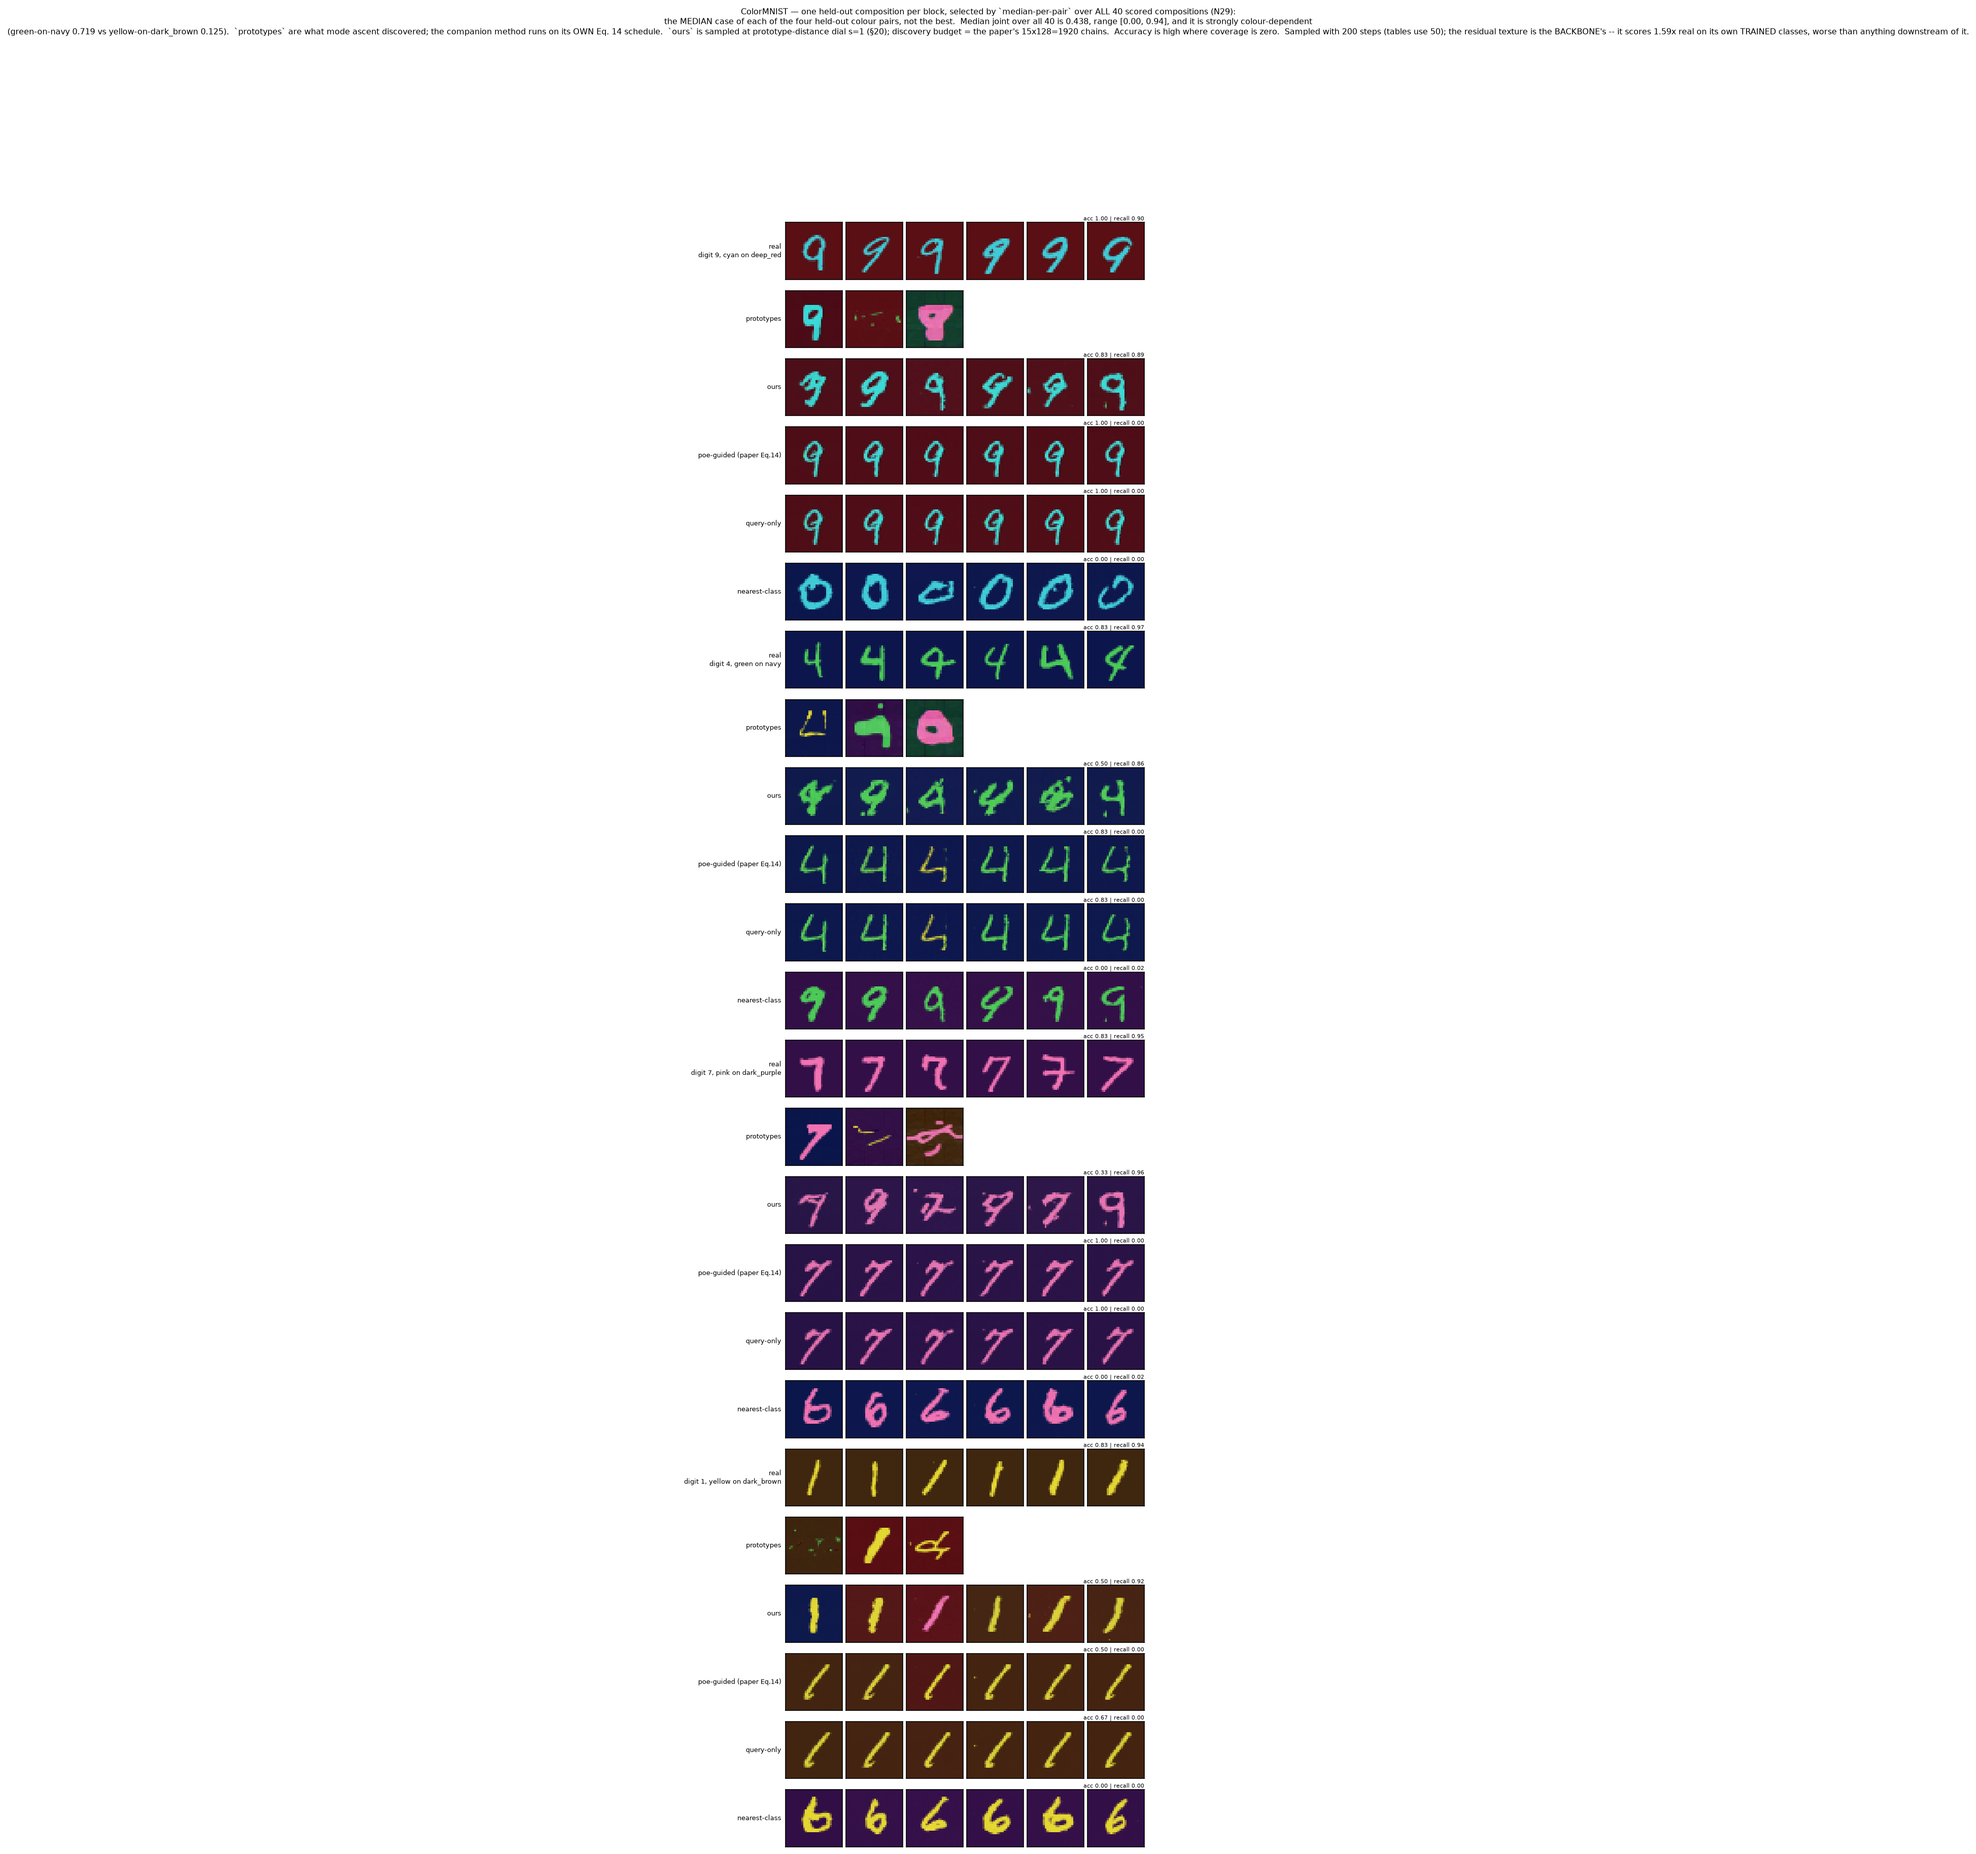
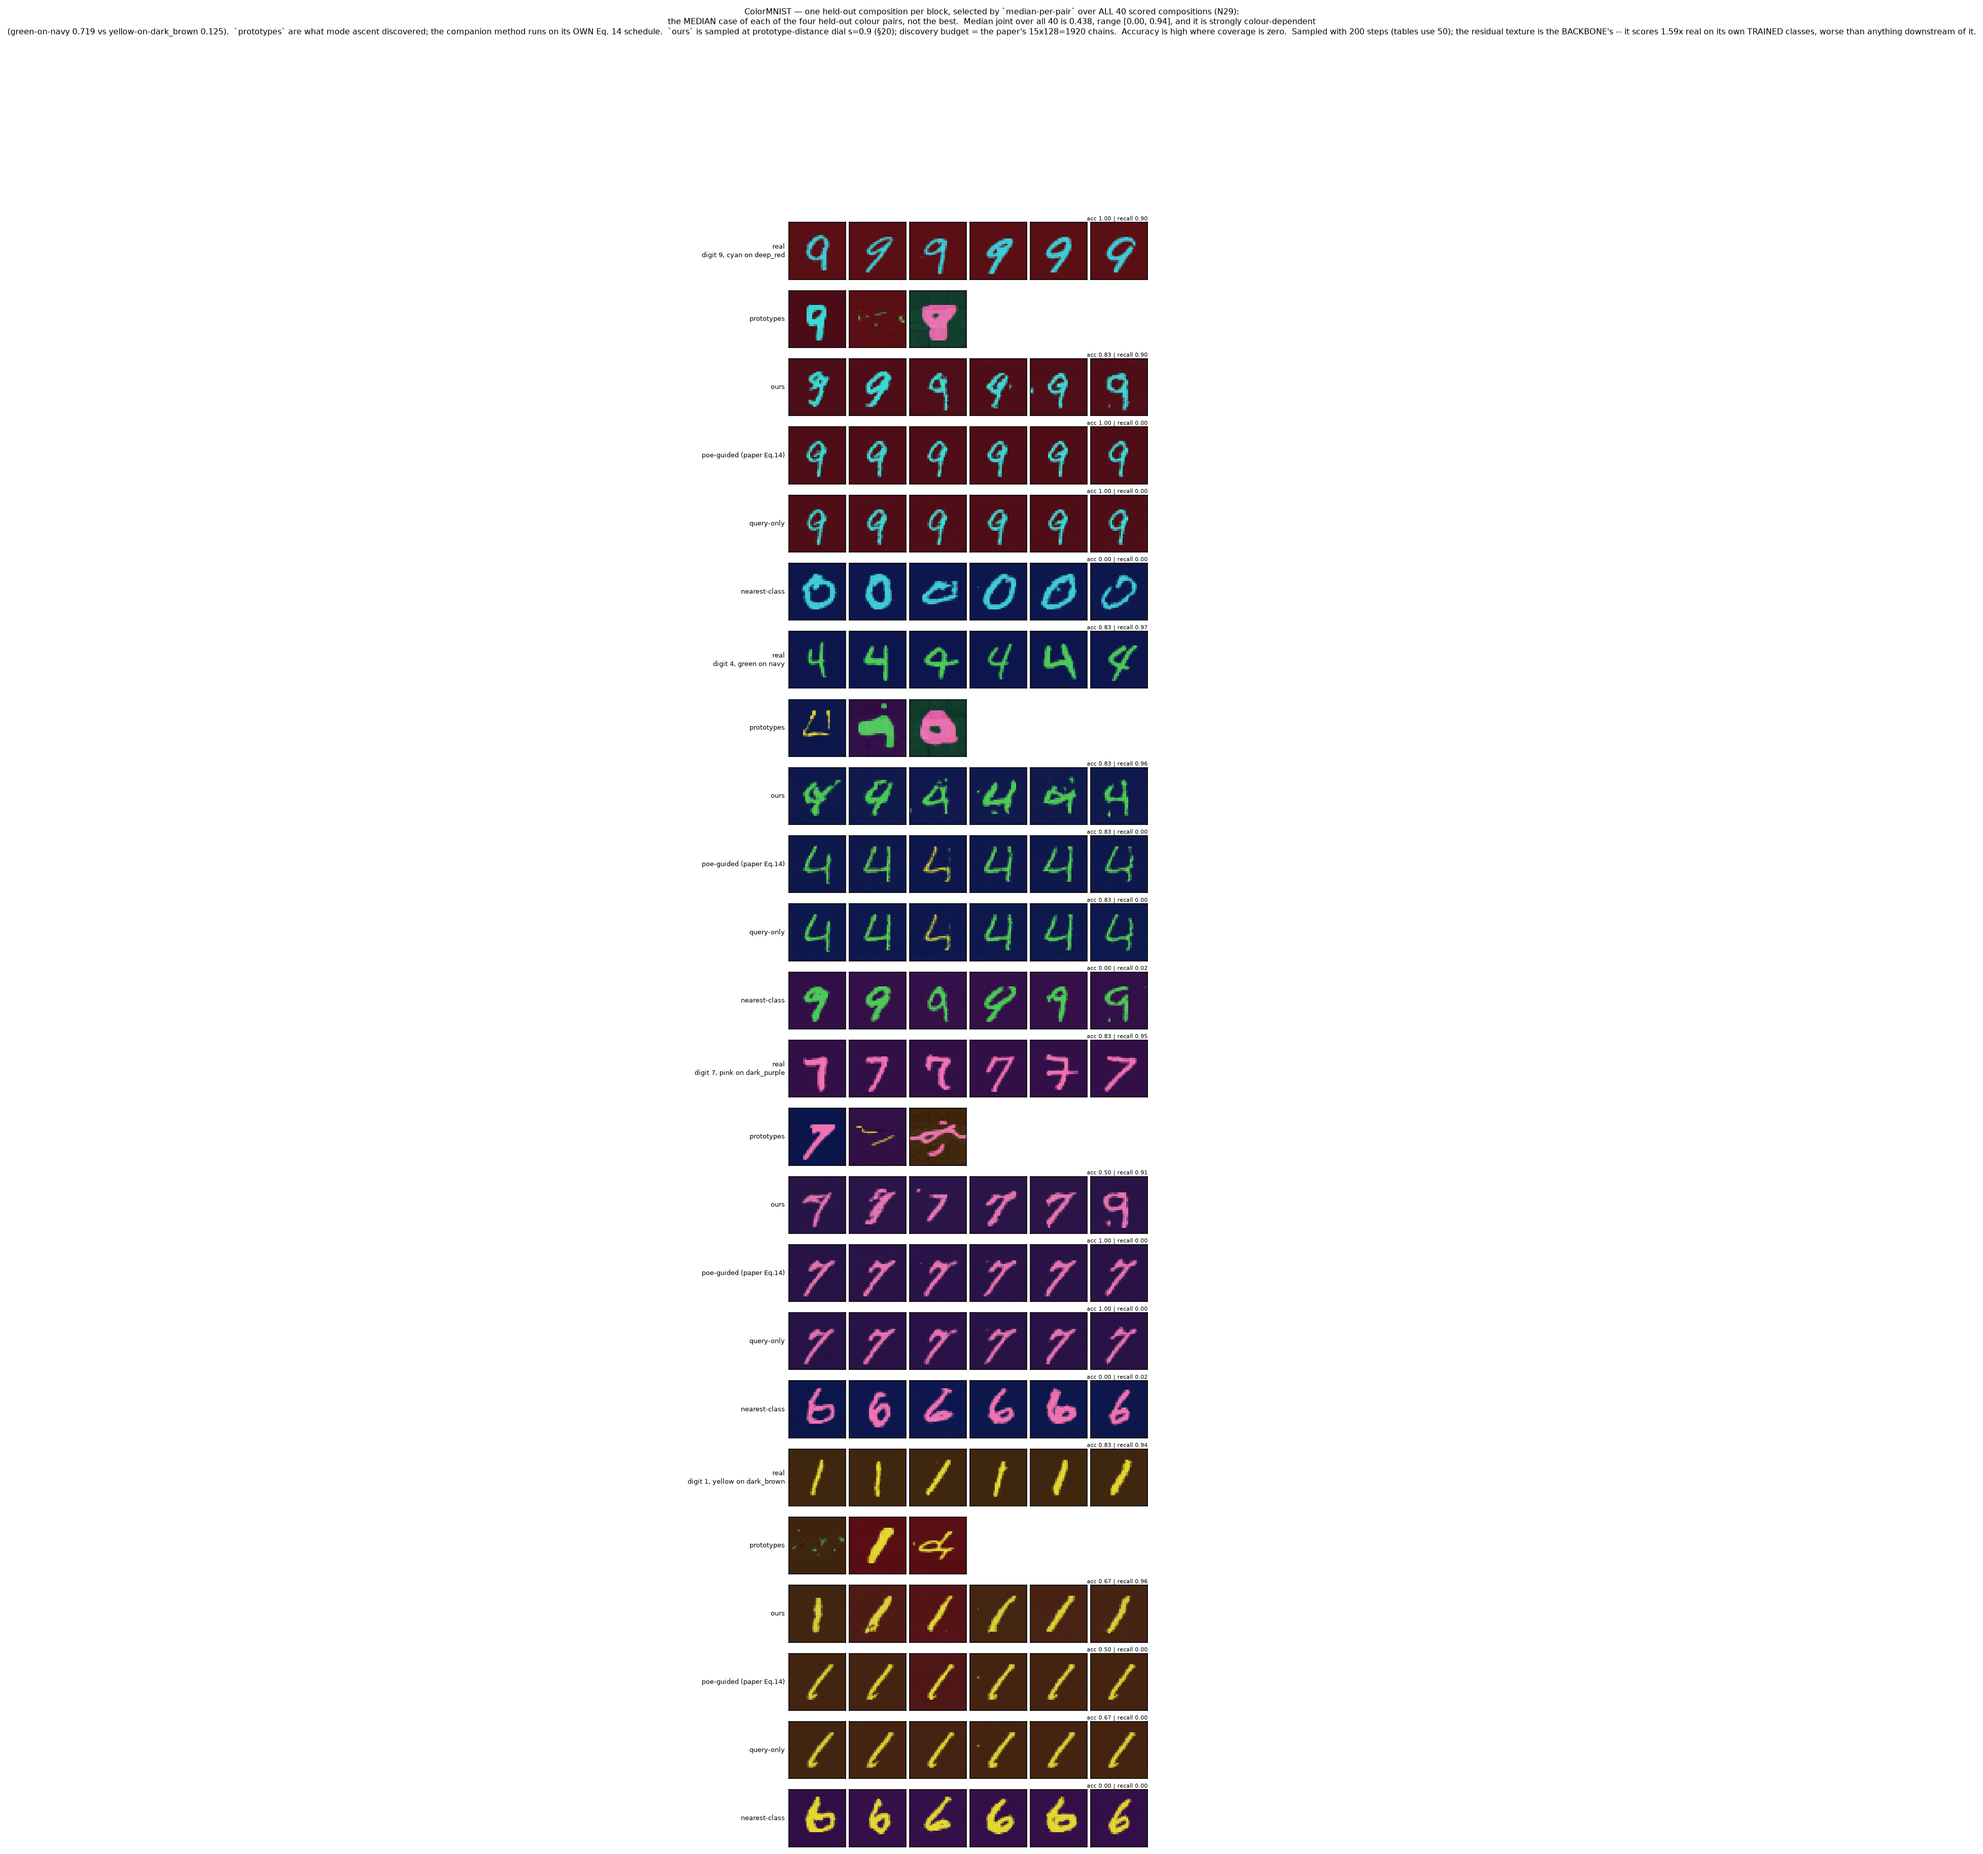
F11 gains a sample strip; F13 will redraw under the cu default
F11 plotted four curves about what the prototype dial does without ever showing what
it does.  --with-cases renders one held-out composition at every dial setting under
the shared x-axis, using the same sample_concept call the tables use so the strip
cannot drift from the curve above it, with the selected s highlighted.  The curves-only
path is unchanged and still runs without a GPU.

F13 needs no code change to become a cu drawing: n36_hierarchy_probe has no --rule
flag, so it reads the bank default, which is now cu.  Re-running it is the fix.

diff --git a/experiments/make_n30_figure.py b/experiments/make_n30_figure.py
@@ -13,8 +13,13 @@ The point of the figure is a contrast, not a score:
                 prototype has been destroyed and the process begins from essentially pure noise --
                 the samples still land 0.055 from the prototype with recall 0.000.
 
-    python experiments/make_n30_figure.py
+`--with-cases` adds the panel the curves are an abstraction OF: for one held-out composition, a
+strip of actual samples at every dial setting, drawn under the shared x-axis so a reader can see
+what "s" does rather than take the curve's word for it.  Needs the backbone and a GPU.
+
+    python experiments/make_n30_figure.py --with-cases
 """
+import argparse
 import glob
 import json
 import os
@@ -36,7 +41,55 @@ PANELS = [("f1", "F1  (coverage x precision)", None),
           ("dist_prototype", "RMS distance to the prototype", None)]
 
 
+def render_cases(strengths, seed=0, n_show=5, steps=50):
+    """Samples of ONE held-out composition at each dial setting.  -> (list of [n, D] arrays, label)"""
+    import torch
+    sys.path.insert(0, os.path.join(HERE, "experiments"))
+    from common import CACHE, ood_queries
+    from lifelong_ood.datasets import load_colormnist, slot_name
+    from lifelong_ood.neural import NeuralLifelongLearner, load_field, to_data, to_model
+    from lifelong_ood.neural.idealwords import slot_factors
+
+    dev = "cuda" if torch.cuda.is_available() else "cpu"
+    data = load_colormnist(n_per_slot=60, seed=seed)
+    ck = torch.load(os.path.join(CACHE, "ddpm_colormnist.pt"), map_location="cpu",
+                    weights_only=False)
+    remap = ck["remap"]; slots = np.array(sorted(remap))
+    C = ck["ema"]["cemb.weight"].numpy()[[remap[int(x)] for x in slots]]
+    field = load_field(os.path.join(CACHE, "ddpm_colormnist.pt"), device=dev)
+    L = NeuralLifelongLearner(field, steps=steps, seed=seed, device=dev)
+    L.attach_factorization(C, slot_factors(slots))
+    q = ood_queries(data, n_slots=1, seed=seed)[0]
+    xq = to_model(data["X"][q["query"]]).ravel()
+    t = L.compose(xq, u_grid=(0.1, 0.2, 0.3, 0.4), n_starts=16, iters=120)
+    L.learn_concept_factored(xq, "c0", n_pool=48, epochs=40, inv_steps=400, seed=seed)
+    out = []
+    for s_ in strengths:
+        # the dial IS u_start, with the teacher mean as the starting point below 1.0 -- the same
+        # call the tables use, so the strip cannot drift from the curve above it
+        S = to_data(L.sample_concept("c0", n=n_show, steps=steps, seed=seed,
+                                     u_start=float(s_),
+                                     x_init=(t["mu"] if s_ < 1.0 else None))).astype(np.float32)
+        out.append(S)
+    return out, slot_name(q["d"], q["f"], q["b"]), data["X"][q["rest"][:n_show]].astype(np.float32)
+
+
+def best_hint(S, runs):
+    """The dial setting the sweep selects -- same rule as the vline, so they agree."""
+    def c(s_):
+        v = [r["summary"][f"ours@{s_:g}"]["f1"] for r in runs
+             if f"ours@{s_:g}" in r["summary"]]
+        return float(np.mean(v)) if v else float("nan")
+    return S[int(np.argmax([c(x) for x in S]))]
+
+
 def main():
+    ap = argparse.ArgumentParser()
+    ap.add_argument("--with-cases", action="store_true",
+                    help="render a sample strip per dial setting under the curves (needs a GPU)")
+    ap.add_argument("--n-show", type=int, default=5)
+    ap.add_argument("--seed", type=int, default=0)
+    args = ap.parse_args()
     runs = [json.load(open(f)) for f in
             sorted(glob.glob(os.path.join(RESULTS, "n30_prototype_distance_fine__seed*.json")))]
     if not runs:
@@ -52,7 +105,34 @@ def main():
     import matplotlib
     matplotlib.use("Agg")
     import matplotlib.pyplot as plt
-    fig, axes = plt.subplots(1, 4, figsize=(16.5, 3.9))
+    cases = label = real = None
+    if args.with_cases:
+        print("[f11] rendering the sample strip (backbone + one consolidation)...", flush=True)
+        cases, label, real = render_cases(S, seed=args.seed, n_show=args.n_show)
+    if cases is None:
+        fig, axes = plt.subplots(1, 4, figsize=(16.5, 3.9))
+    else:
+        # curves on top, one sample column per dial setting underneath, sharing the x meaning
+        fig = plt.figure(figsize=(16.5, 6.4))
+        outer = fig.add_gridspec(2, 1, height_ratios=[3.9, 2.2], hspace=0.42)
+        axes = [fig.add_subplot(outer[0].subgridspec(1, 4, wspace=0.24)[i]) for i in range(4)]
+        strip = outer[1].subgridspec(args.n_show, len(S) + 1, wspace=0.04, hspace=0.04)
+        for r in range(args.n_show):
+            axr = fig.add_subplot(strip[r, 0])
+            axr.imshow(np.clip(real[r].reshape(32, 32, 3), 0, 1))
+            axr.set_xticks([]); axr.set_yticks([])
+            for sp in axr.spines.values():
+                sp.set_color("#666"); sp.set_linewidth(1.1)
+            if r == 0:
+                axr.set_title("real", fontsize=8)
+            for c, s_ in enumerate(S):
+                axc = fig.add_subplot(strip[r, c + 1])
+                axc.imshow(np.clip(cases[c][r].reshape(32, 32, 3), 0, 1))
+                axc.axis("off")
+                if r == 0:
+                    axc.set_title(f"s={s_:g}", fontsize=8,
+                                  color=("#1B7F4B" if s_ == best_hint(S, runs) else "#333"),
+                                  fontweight=("bold" if s_ == best_hint(S, runs) else "normal"))
     for ax, (key, title, _) in zip(axes, PANELS):
         for arm, (col, mk, lab) in ARMS.items():
             m = np.array([cell(arm, s, key)[0] for s in S])
